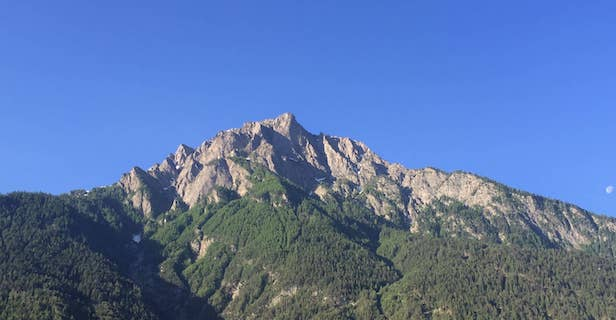
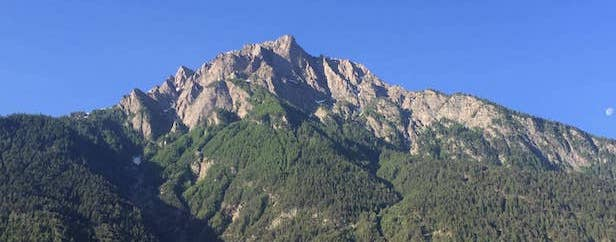
keep top image fixed

diff --git a/burgdorf.html b/burgdorf.html
@@ -87,7 +87,7 @@
         Interessierte lesen die &laquo;<span class="text-uppercase">Fäschtzittig</span>&raquo;!
     </p>
 </div>
-<div id="zerzubenCar" class="bigImage"></div>
+<div id="zerzubenCar" class="big_image"></div>
 <div class="container py-3 section">
     <p>
         So pünktlich, wie wir abgefahren sind, so pünktlich kommen wir auch endlich in
@@ -134,7 +134,7 @@
         wert ist, erfahren wir erst am Sonntag.
     </p>
 </div>
-<div id="jmBurgdorfConcert" class="bigImage"></div>
+<div id="jmBurgdorfConcert" class="big_image"></div>
 <div class="container py-3 section">
     <p>
         Nun ging's wieder zurück ins Instrumentendepot. Es heisst Umziehen, Abendessen und
@@ -236,7 +236,7 @@
         Punkten ist... drei Sekunden absolute Stille... Jugendmusik Glis!
     </p>
 </div>
-<div id="jmBurgdorfWin" class="bigImage"></div>
+<div id="jmBurgdorfWin" class="big_image"></div>
 <div class="container py-3 section">
     <p>
         Die Jugendmusik liegt sich in den Armen und ich darf den Pokal für den
@@ -273,7 +273,7 @@
         Politik richtet Daniel Studer einige Worte an die Jugendmusik.
     </p>
 </div>
-<div id="jmBurgdorfOldPresidents" class="bigImage"></div>
+<div id="jmBurgdorfOldPresidents" class="big_image"></div>
 <div class="container py-3 section">
     <p>
         Sogar ich bin ausnahmsweise mal müde und gehe nicht als Letzter ins Bett. Zwei
@@ -293,7 +293,7 @@
         Präsident, Dominic Wenger
     </p>
 </div>
-<div id="jmBurgdorfDominicTrophy" class="bigImage"></div>
+<div id="jmBurgdorfDominicTrophy" class="big_image"></div>
 
 <!-- Impressum -->
 <footer class="container-fluid p-3 my-3 text-center bg-light">

diff --git a/css/structure.css b/css/structure.css
@@ -1,7 +1,7 @@
 .top-image {
     height: 150px;
-    background: url("../src/glishorn.jpg") center no-repeat;
-    background-size: 100% auto;
+    background: url("../src/glishorn.jpg") no-repeat fixed top;
+    background-size: 100% 30%;
 }
 
 .field {
@@ -19,12 +19,14 @@
 @media (min-width: 600px) {
     .top-image {
         height: 200px;
+        background-size: 100% 40%;
+        background-image: url("../src/glishorn_lg.jpg");
     }
 }
 
 @media (min-width: 1200px) {
     .top-image {
         height: 300px;
-        background-image: url("../src/glishorn_lg.jpg");
+        background-size: 100% 50%;
     }
 }

diff --git a/css/burgdorf-images.css b/css/burgdorf-images.css
@@ -2,7 +2,7 @@ body, html {
     height: 100%;
 }
 
-.bigImage {
+.big_image {
     height: 100%;
     background-attachment: fixed;
     background-position: center;
@@ -26,6 +26,6 @@ body, html {
     background-image: url("../src/jm_burgdorf_altpraesidenten.jpeg");
 }
 
-#jmBurgdorfDominicTrophy {
+#jmBurgdorfTrophy {
     background-image: url("../src/jm_burgdorf_pokale.jpeg");
 }
